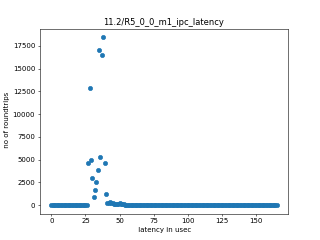
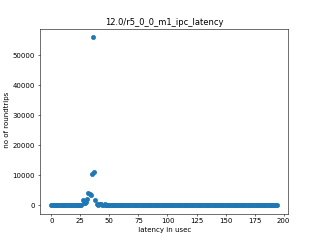
feat(linux): AM64X: update 12.0 performance numbers for IPC
update RPMessage/IPC latency performance numbers for 12.0 release.

diff --git a/source/devices/AM64X/linux/RT_Linux_Performance_Guide.rst b/source/devices/AM64X/linux/RT_Linux_Performance_Guide.rst
@@ -646,3 +646,41 @@ Listed for each algorithm are the code snippets used to run each benchmark test.
     time -v openssl speed -elapsed -evp aes-128-cbc
 
 |
+
+RP Message Inter-Processor Communication (IPC) Latency
+-------------------------------------------------------
+
+RP Message latency Performance
+^^^^^^^^^^^^^^^^^^^^^^^^^^^^^^
+
+RP Message latency is the delay measured from sending a round trip echo message from
+a Linux application to a remote processor and back. The following measurements use
+a RP message length of 1 byte and 490 bytes for comparison.
+
+The Linux user space application `rpmsg_char_benchmark <https://git.ti.com/cgit/rpmsg/ti-rpmsg-char/>`__ captures these latency values.
+
+Test commands used for running IPC latency tests:
+
+.. code:: console
+
+   rpmsg_char_benchmark -r 2 -n 100000 -m 1 & chrt -f -p 80 $!
+
+Latencies reported:
+
+.. csv-table::
+   :header: "Remote Processor","Message Size (in bytes)","Average round trip (usecs)","Max round trip (usecs)"
+
+   "R5F0_0","1","35","194"
+   "R5F0_0","490","154","255"
+   "M4F","1","43","162"
+   "M4F","490","282","439"
+
+.. image:: img/R5_0_0_m1_ipc_latency.png
+
+.. image:: img/R5_0_0_m490_ipc_latency.png
+
+.. image:: img/m4_0_m1_ipc_latency.png
+
+.. image:: img/m4_0_m490_ipc_latency.png
+
+|
